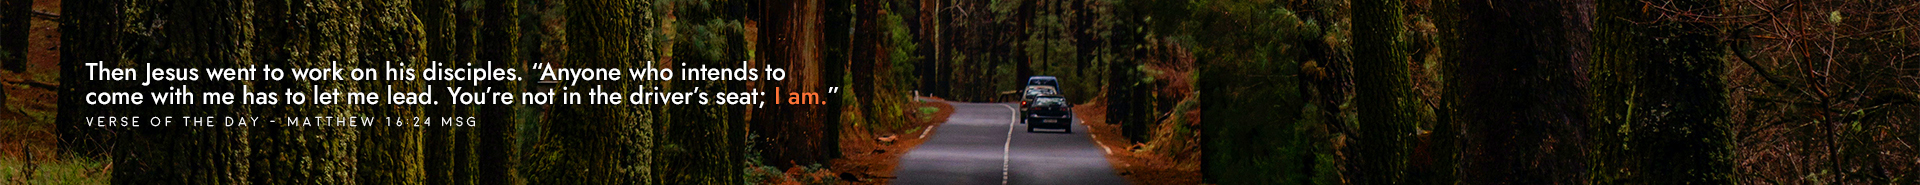
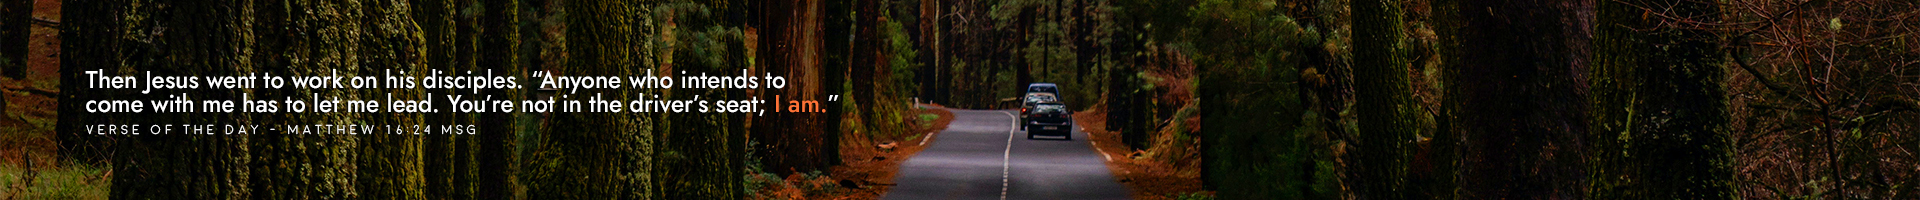
Change hero image styling from object-cover to object-contain for better fit and update dashboard hero image asset.

diff --git a/app/dashboard/page.tsx b/app/dashboard/page.tsx
@@ -13,7 +13,7 @@ const Page = () => {
           alt="hero image"
           fill
           priority
-          className="object-cover"
+          className="object-contain"
           sizes="100vw"
         />
       </div>
